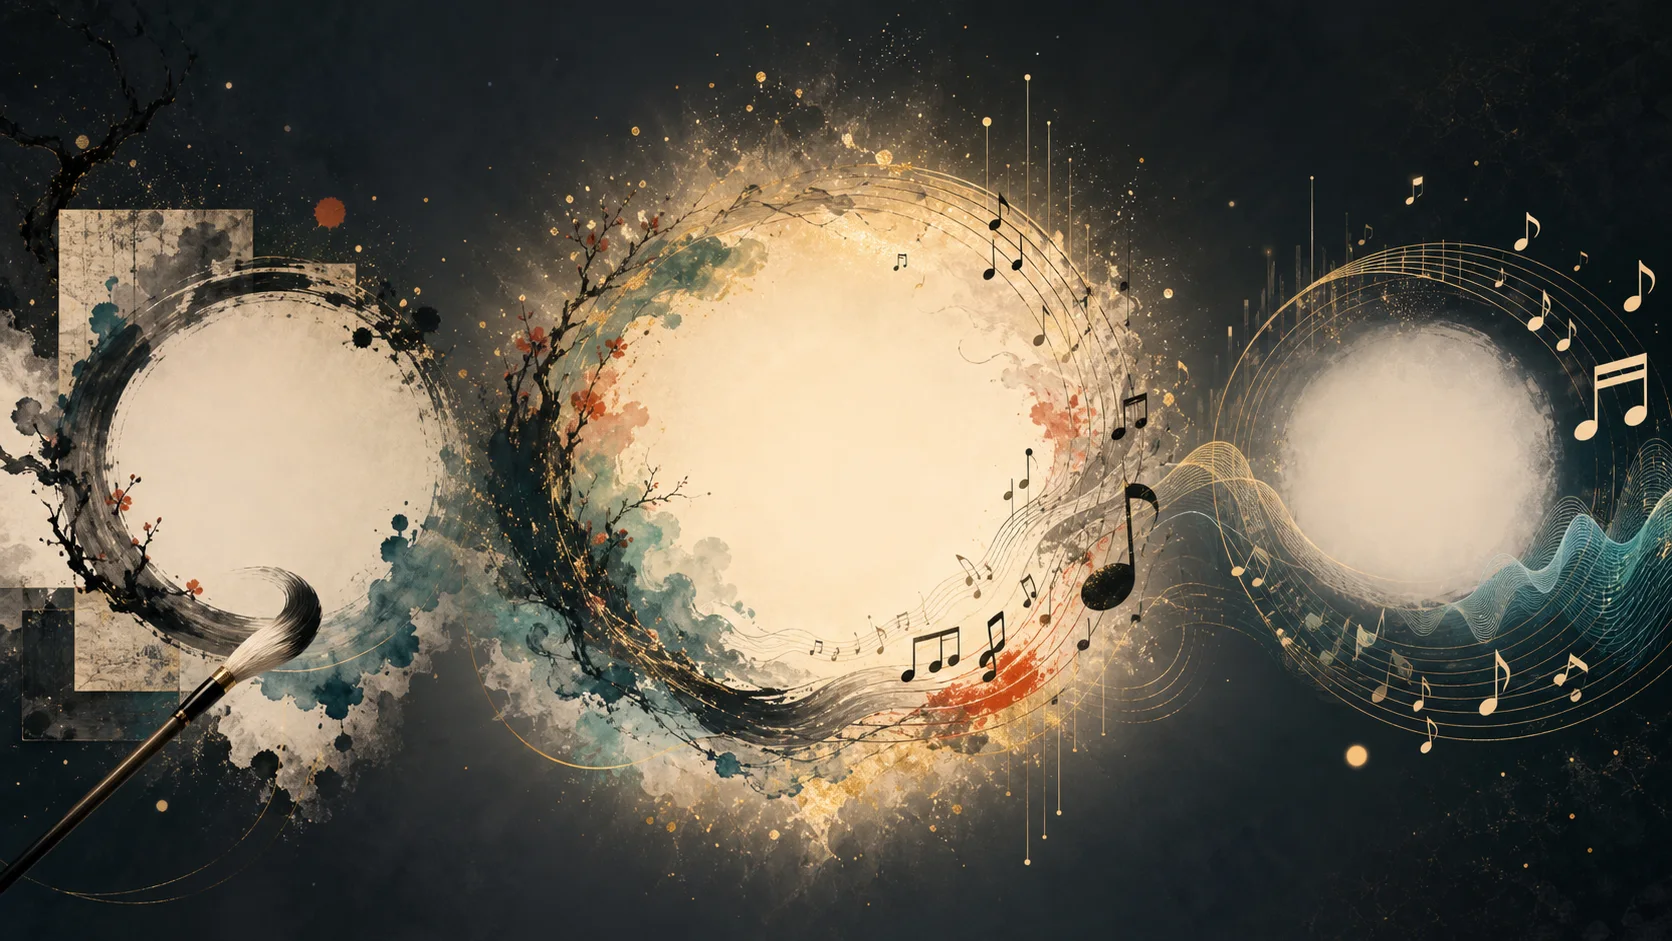
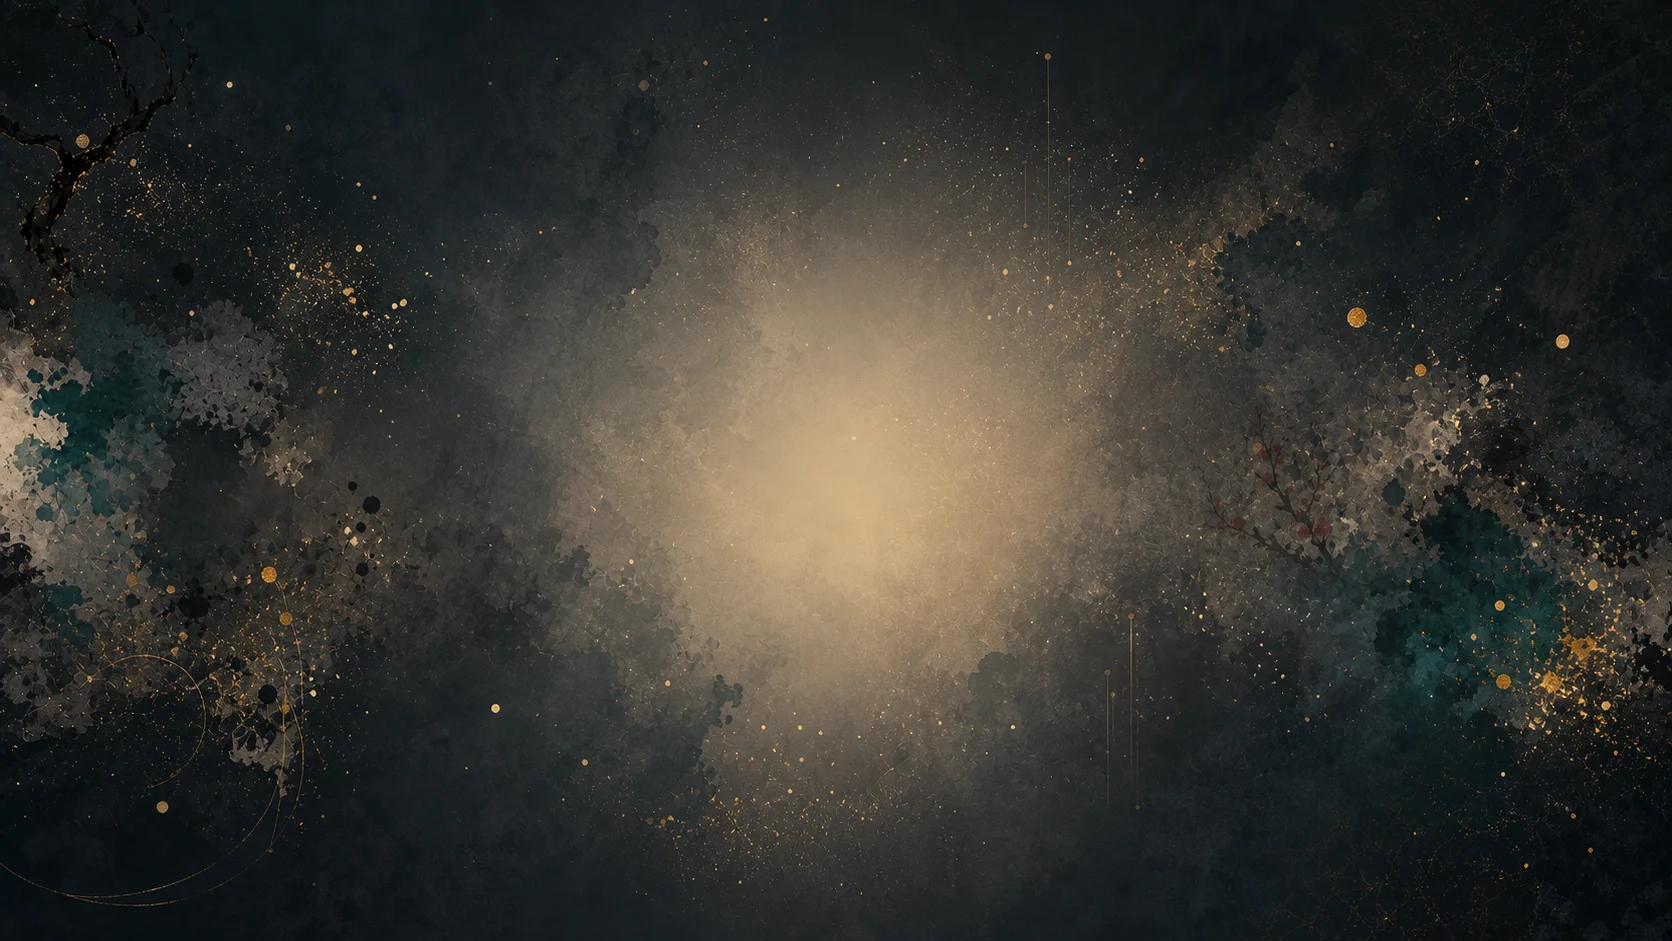
Use empty landing background plate

diff --git a/index.html b/index.html
@@ -104,7 +104,6 @@
         left: -5vw;
         top: 22vh;
         width: min(34vw, 520px);
-        transform: rotate(-9deg);
       }
 
       .final-object.harmony {
@@ -118,12 +117,10 @@
         right: -7vw;
         top: 23vh;
         width: min(40vw, 650px);
-        transform: rotate(8deg);
       }
 
       .final-object.harmony img {
         opacity: 0.18;
-        animation: slowSpin 34000ms linear infinite;
       }
 
       .final-object.paint img,
@@ -250,14 +247,12 @@
       .intro-symbol.paint {
         --start-x: clamp(-570px, -34vw, -360px);
         --mid-x: clamp(-170px, -11vw, -110px);
-        --tilt: -5deg;
         animation-delay: 150ms;
       }
 
       .intro-symbol.sound {
         --start-x: clamp(360px, 34vw, 570px);
         --mid-x: clamp(110px, 11vw, 170px);
-        --tilt: 5deg;
         animation-delay: 210ms;
       }
 
@@ -275,7 +270,6 @@
         object-fit: contain;
         opacity: 0.96;
         transform-origin: 50% 50%;
-        animation: objectSpin 5100ms linear infinite;
       }
 
       .intro-symbol.harmony .meaning-object {
@@ -337,30 +331,30 @@
       @keyframes sideSymbolGather {
         0% {
           opacity: 0;
-          transform: translate(-50%, -50%) translateX(var(--start-x)) scale(0.62) rotate(var(--tilt));
+          transform: translate(-50%, -50%) translateX(var(--start-x)) scale(0.62);
           filter: blur(8px) drop-shadow(var(--symbol-shadow));
         }
         15% {
           opacity: 1;
-          transform: translate(-50%, -50%) translateX(var(--start-x)) scale(0.96) rotate(var(--tilt));
+          transform: translate(-50%, -50%) translateX(var(--start-x)) scale(0.96);
           filter: blur(0) drop-shadow(var(--symbol-shadow));
         }
         46% {
           opacity: 1;
-          transform: translate(-50%, -50%) translateX(var(--start-x)) scale(1.04) rotate(var(--tilt));
+          transform: translate(-50%, -50%) translateX(var(--start-x)) scale(1.04);
         }
         68% {
           opacity: 1;
-          transform: translate(-50%, -50%) translateX(var(--mid-x)) scale(0.92) rotate(0deg);
+          transform: translate(-50%, -50%) translateX(var(--mid-x)) scale(0.92);
         }
         86% {
           opacity: 0.9;
-          transform: translate(-50%, -50%) translateX(0) scale(0.54) rotate(0deg);
+          transform: translate(-50%, -50%) translateX(0) scale(0.54);
           filter: blur(0) drop-shadow(0 20px 52px rgba(255, 218, 128, 0.18));
         }
         100% {
           opacity: 0;
-          transform: translate(-50%, -50%) translateX(0) scale(0.2) rotate(0deg);
+          transform: translate(-50%, -50%) translateX(0) scale(0.2);
           filter: blur(9px) drop-shadow(0 14px 34px rgba(255, 218, 128, 0.1));
         }
       }
@@ -394,25 +388,13 @@
         }
       }
 
-      @keyframes objectSpin {
-        to {
-          transform: rotate(360deg);
-        }
-      }
-
       @keyframes finalFloat {
         0%,
         100% {
-          transform: translateY(0) rotate(0deg);
+          transform: translateY(0);
         }
         50% {
-          transform: translateY(-12px) rotate(1.6deg);
-        }
-      }
-
-      @keyframes slowSpin {
-        to {
-          transform: rotate(360deg);
+          transform: translateY(-12px);
         }
       }
 
